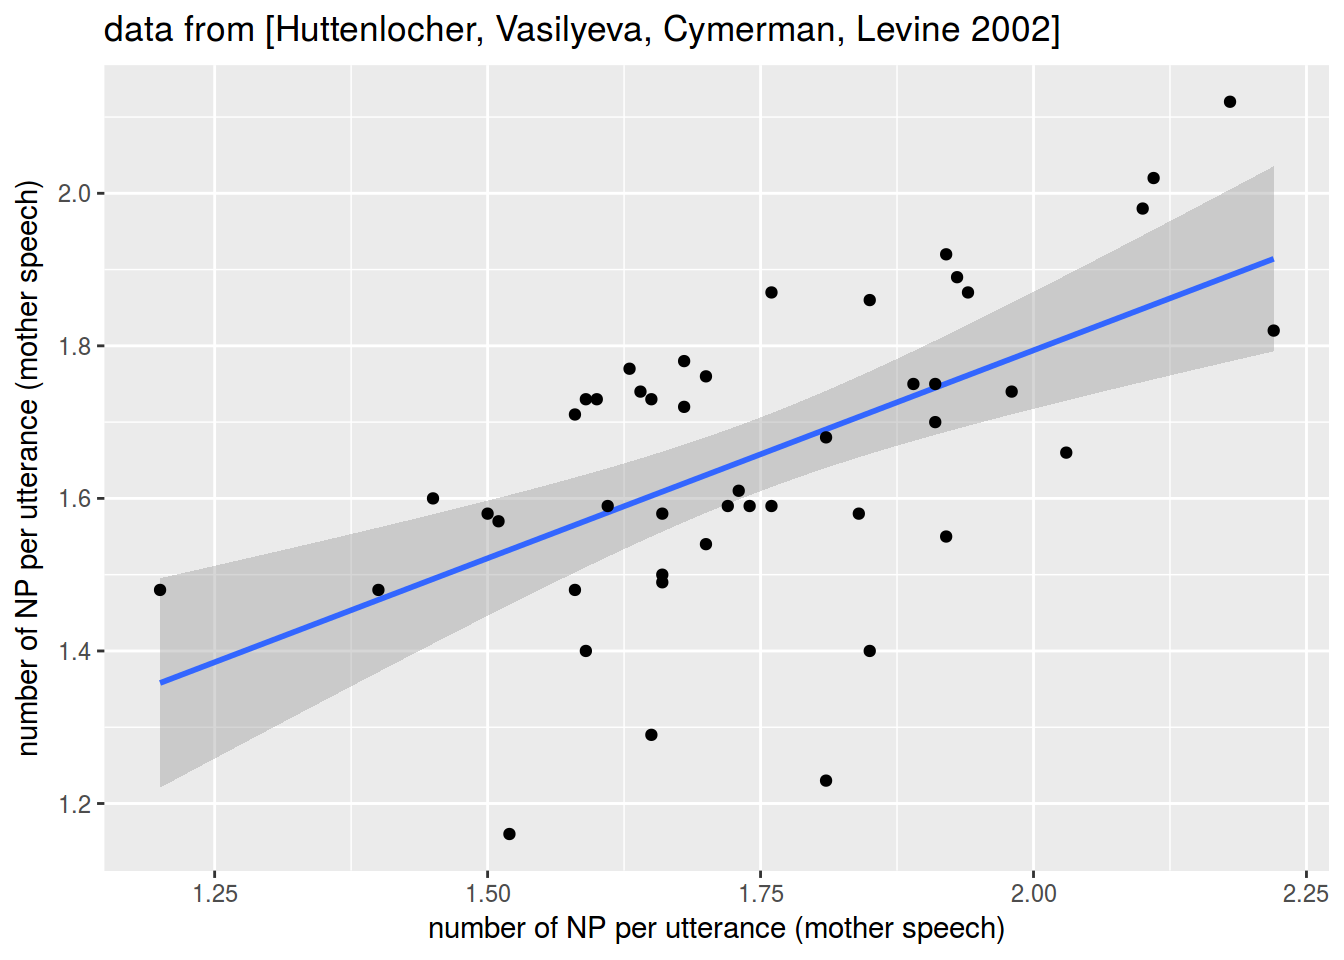
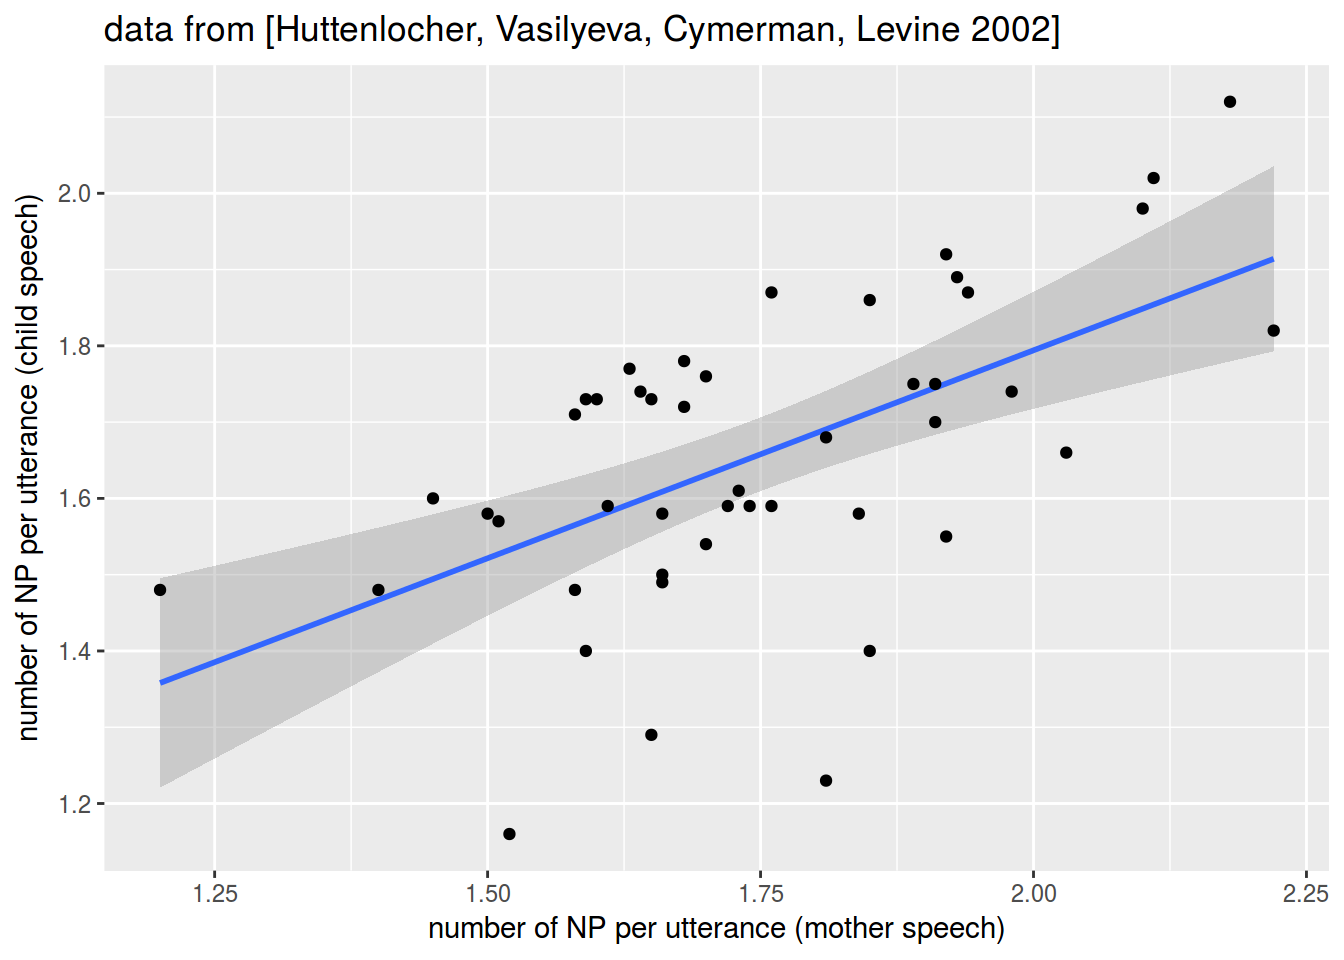
correct lab6

Changed region(s): [[0.0, 0.1875, 0.0312, 0.7812]]

diff --git a/docs/Lab6.html b/docs/Lab6.html
@@ -229,8 +229,7 @@ $(document).ready(function () {
 <h3>0. Data</h3>
 <div class="sourceCode"><pre class="sourceCode r"><code class="sourceCode r"><span class="kw">library</span>(tidyverse)
 np_acquisition &lt;-<span class="st"> </span><span class="kw">read_csv</span>(<span class="st">&quot;https://goo.gl/DhpmLe&quot;</span>)
-bnc_pron &lt;-<span class="st"> </span><span class="kw">read_csv</span>(<span class="st">&quot;https://goo.gl/vt1HCc&quot;</span>)
-readability &lt;-<span class="st"> </span><span class="kw">read_csv</span>(<span class="st">&quot;https://goo.gl/t6ef48&quot;</span>)</code></pre></div>
+bnc_pron &lt;-<span class="st"> </span><span class="kw">read_csv</span>(<span class="st">&quot;https://goo.gl/vt1HCc&quot;</span>)</code></pre></div>
 </div>
 <div id="section" class="section level3">
 <h3>1.1</h3>
@@ -239,7 +238,7 @@ readability &lt;-<span class="st"> </span><span class="kw">read_csv</span>(<span
 <span class="st">  </span><span class="kw">geom_smooth</span>(<span class="dt">method =</span> <span class="st">&quot;lm&quot;</span>)<span class="op">+</span>
 <span class="st">  </span><span class="kw">geom_point</span>()<span class="op">+</span>
 <span class="st">  </span><span class="kw">labs</span>(<span class="dt">x =</span> <span class="st">&quot;number of NP per utterance (mother speech)&quot;</span>,
-       <span class="dt">y =</span> <span class="st">&quot;number of NP per utterance (mother speech)&quot;</span>,
+       <span class="dt">y =</span> <span class="st">&quot;number of NP per utterance (child speech)&quot;</span>,
        <span class="dt">title =</span> <span class="st">&quot;data from [Huttenlocher, Vasilyeva, Cymerman, Levine 2002]&quot;</span>)</code></pre></div>
 <p><img src="Lab6_files/figure-html/unnamed-chunk-2-1.png" width="672" /></p>
 </div>
@@ -249,7 +248,7 @@ readability &lt;-<span class="st"> </span><span class="kw">read_csv</span>(<span
 <span class="st">  </span><span class="kw">ggplot</span>(<span class="kw">aes</span>(P1, P2))<span class="op">+</span>
 <span class="st">  </span><span class="kw">geom_smooth</span>(<span class="dt">method =</span> <span class="st">&quot;lm&quot;</span>)<span class="op">+</span>
 <span class="st">  </span><span class="kw">geom_point</span>()<span class="op">+</span>
-<span class="st">  </span><span class="kw">labs</span>(<span class="dt">x =</span> <span class="st">&quot;proportions of the second-person pronouns&quot;</span>,
+<span class="st">  </span><span class="kw">labs</span>(<span class="dt">x =</span> <span class="st">&quot;proportions of the first-person pronouns&quot;</span>,
        <span class="dt">y =</span> <span class="st">&quot;proportions of the second-person pronouns&quot;</span>,
        <span class="dt">title =</span> <span class="st">&quot;data from British National Corpus&quot;</span>)</code></pre></div>
 <p><img src="Lab6_files/figure-html/unnamed-chunk-3-1.png" width="672" /></p>
